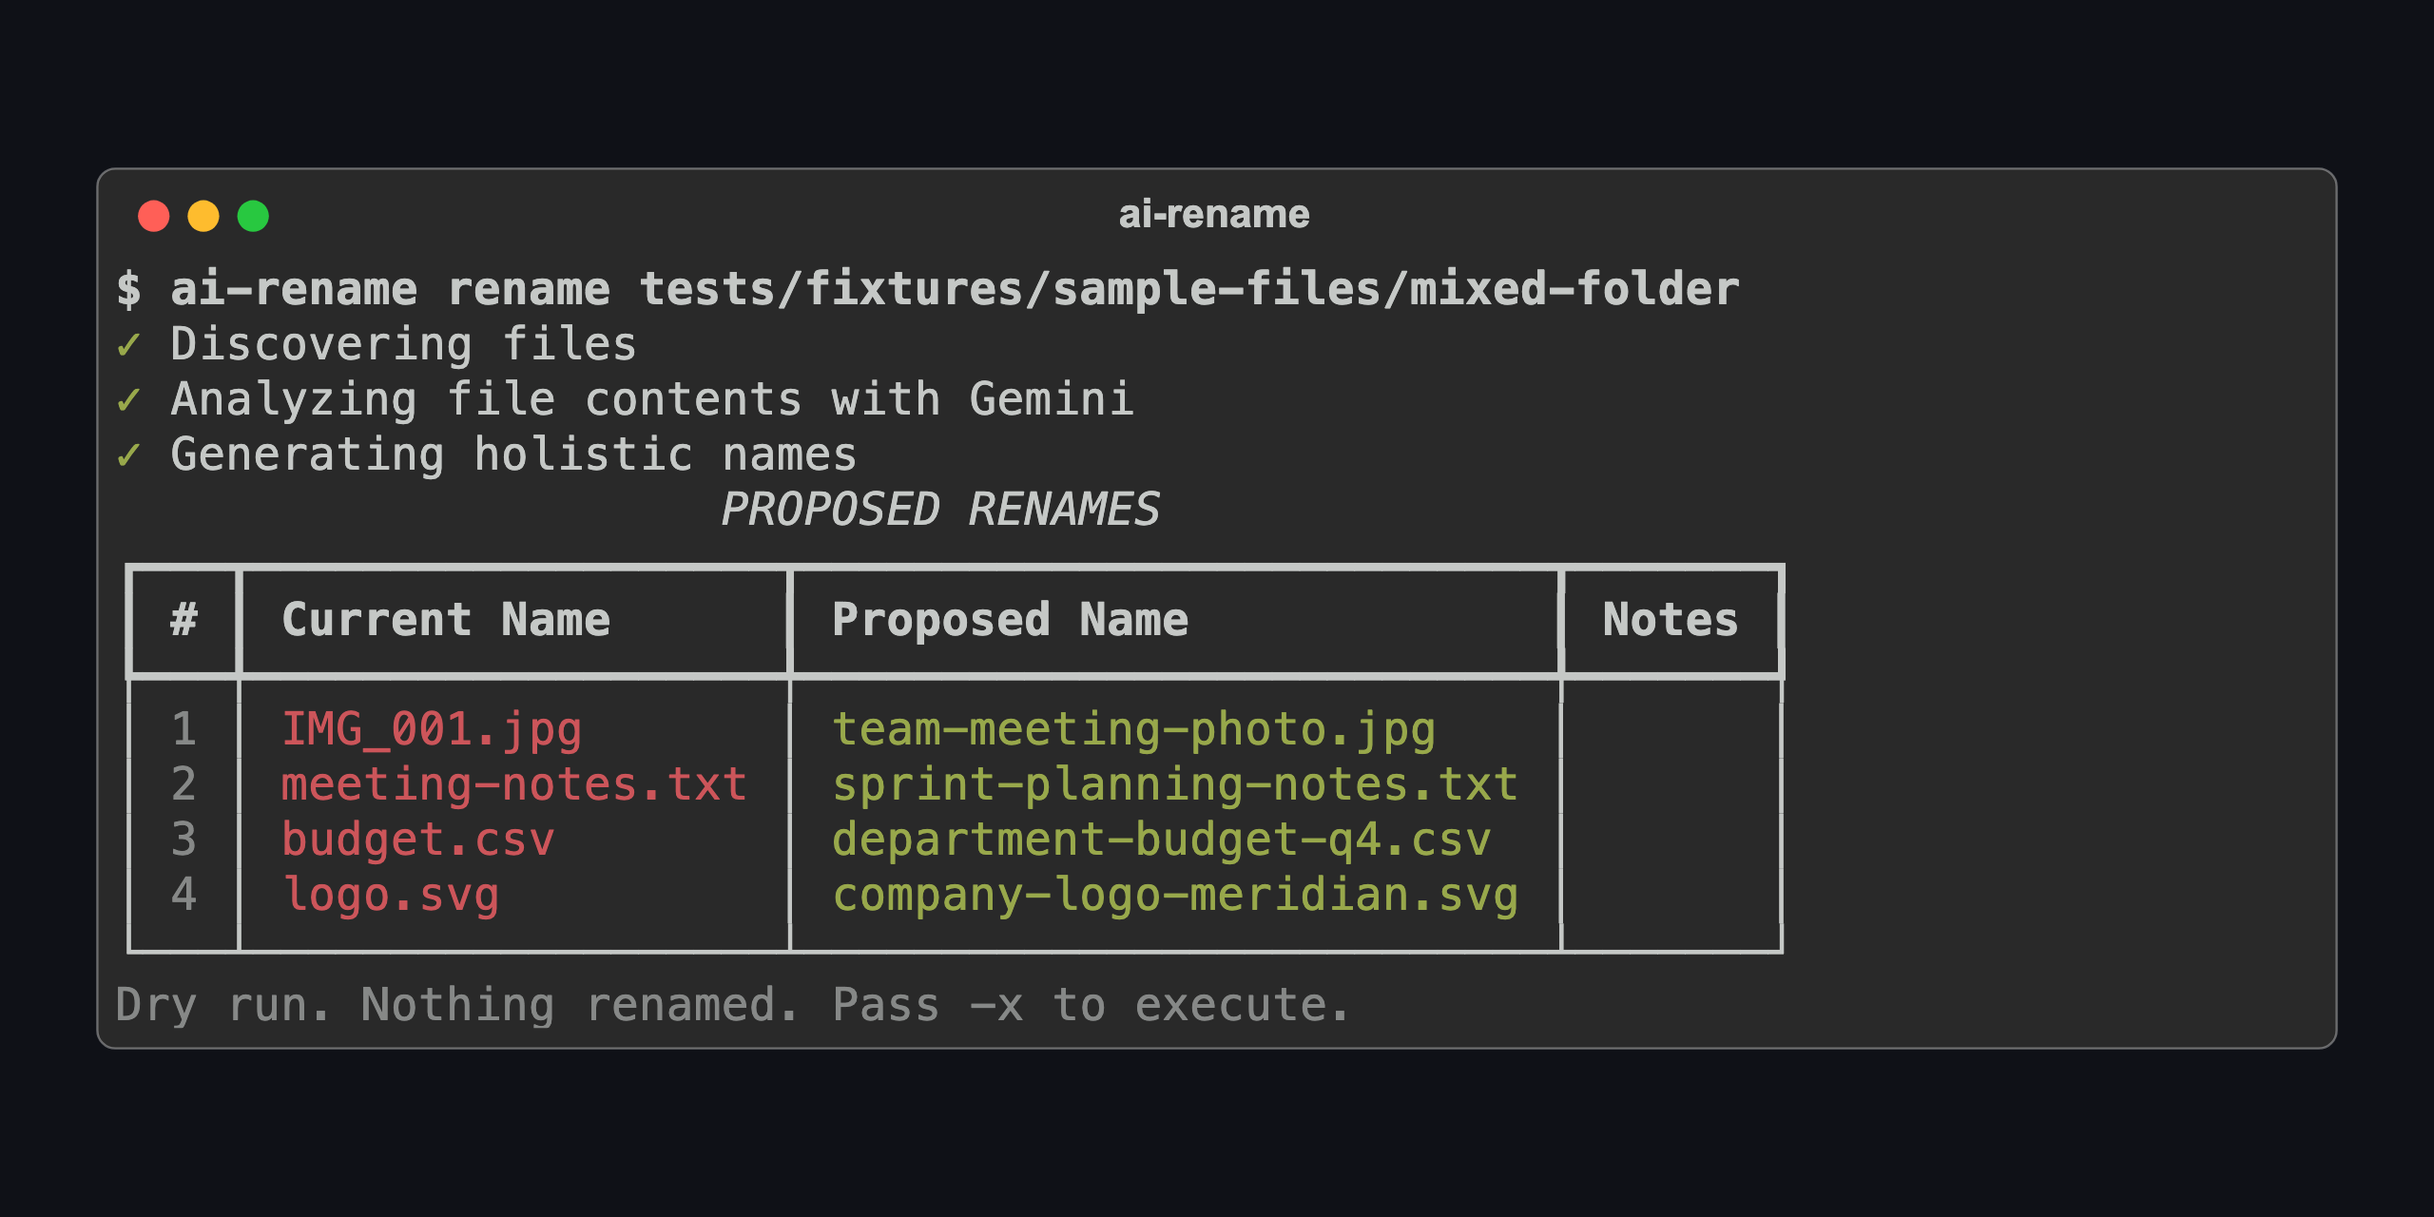
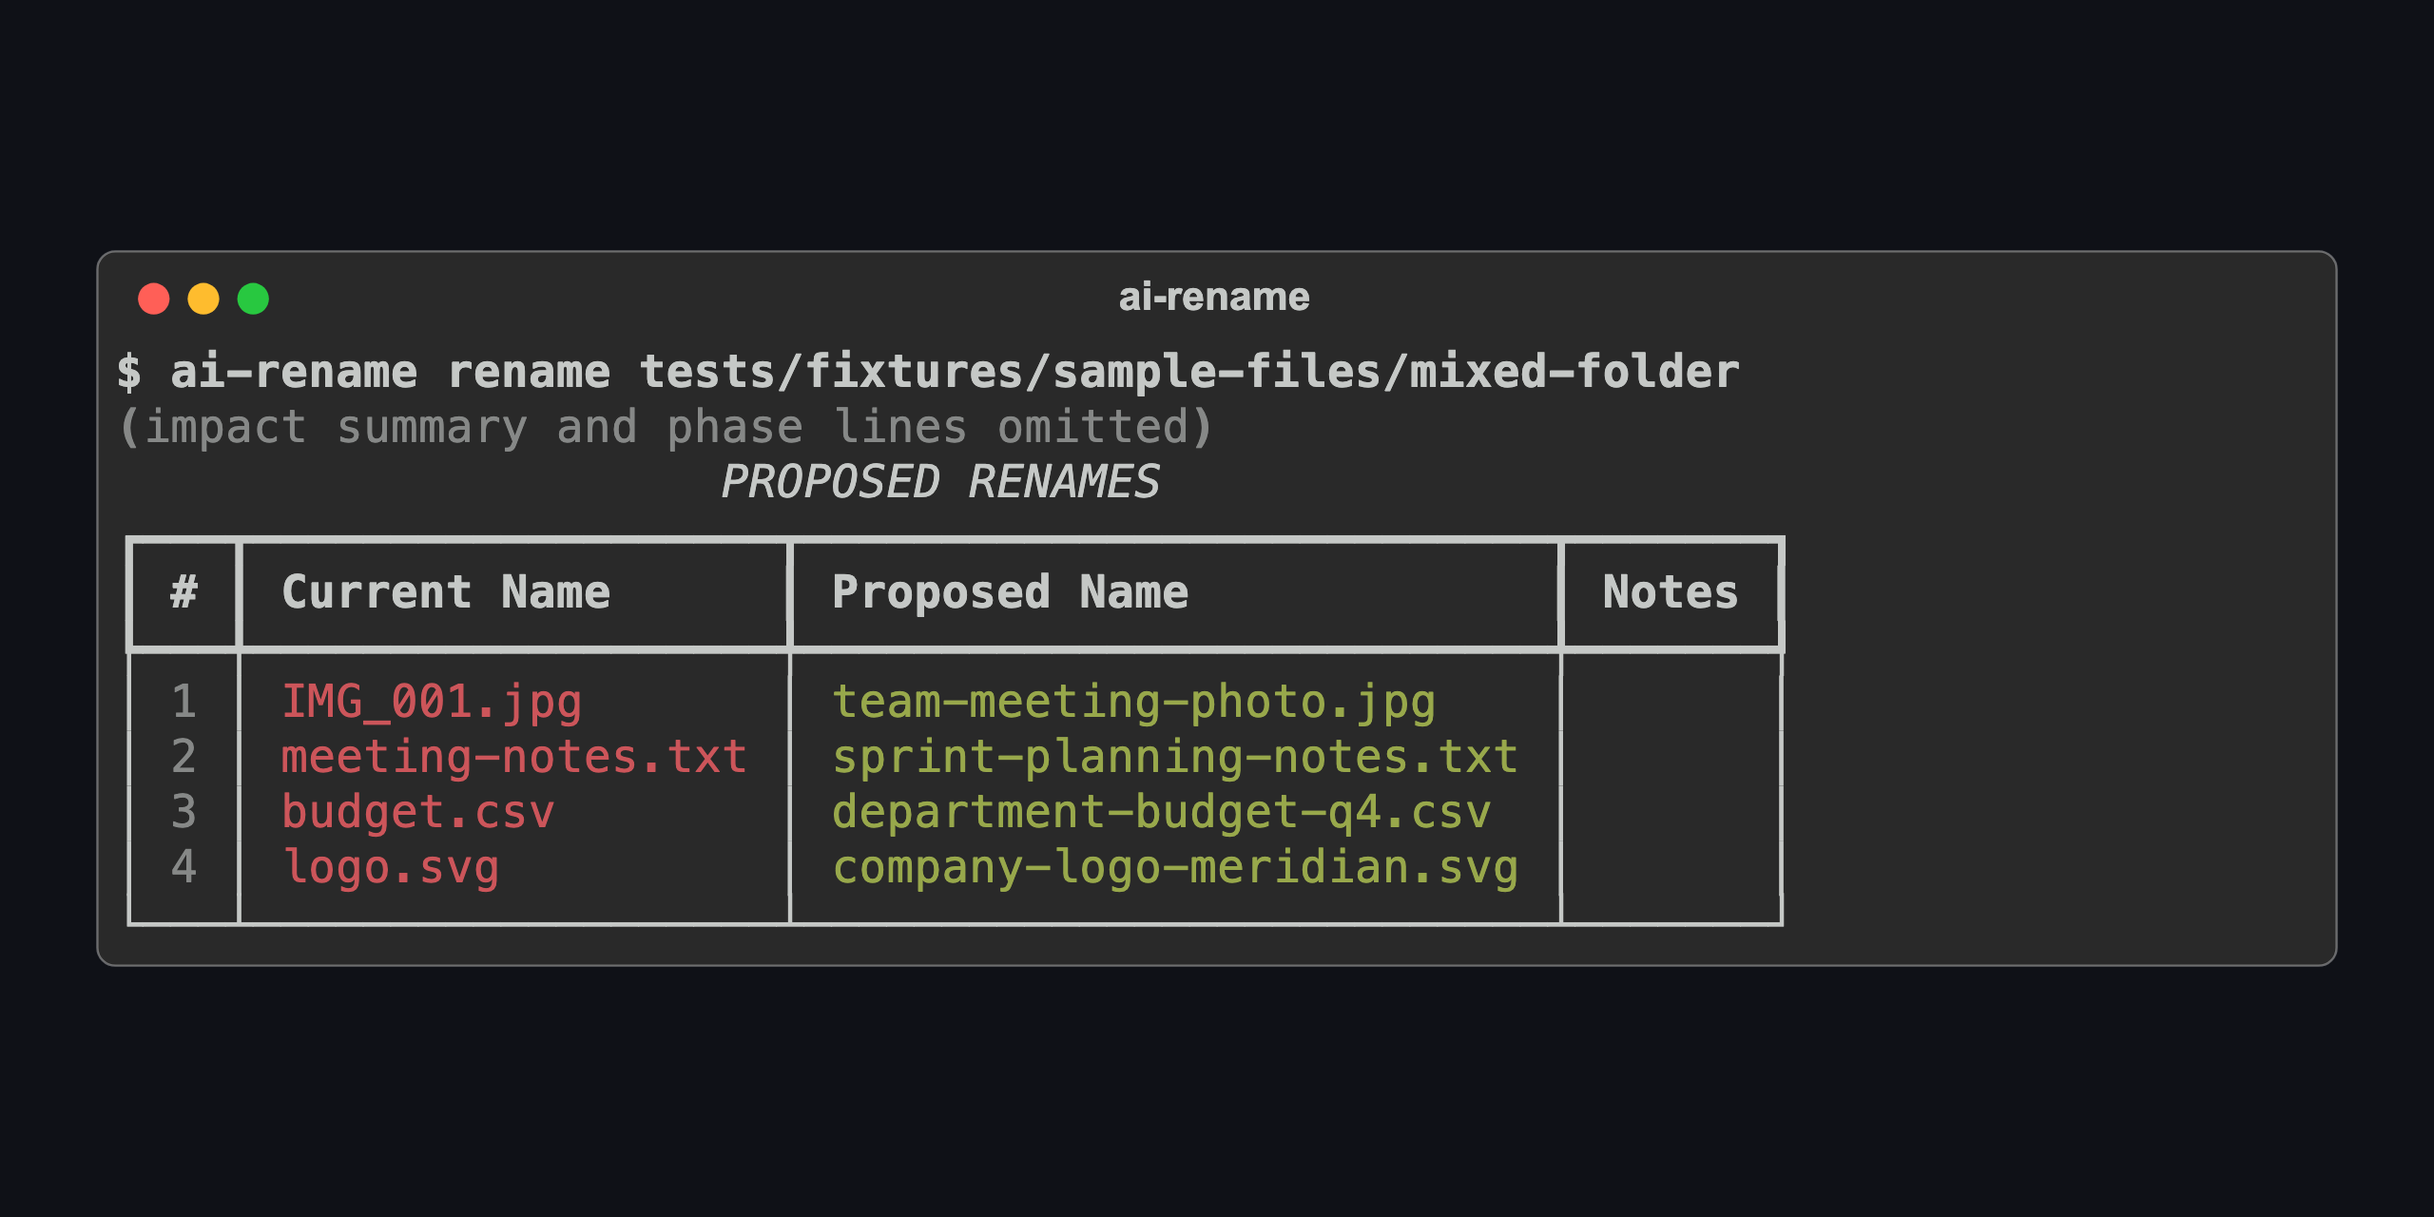
docs: fix what the pre-flip verifier refuted
Cost limit only prompts, so in headless mode it does not stop a run;
a headless re-run discards an interrupted run's manifest; folders above
50 files are named in batches, not one call; the report is rewritten
whole, not atomically; manifest statuses are pending, in_progress,
completed. Said so in AGENTS.md, the manual and known-issues (plus the
network-calling test). README: the -d -H -P flags the plain block
needs, no pipx claim, one call per file. Hero shows only what the CLI
prints. Remove the empty docs/1-todo.md.

Changed region(s): [[0.0312, 0.125, 0.9688, 0.875]]

diff --git a/docs/assets/render_hero.py b/docs/assets/render_hero.py
@@ -28,8 +28,7 @@ renames = json.loads(RESPONSE.read_text())["renames"]
 
 console = Console(record=True, width=86, force_terminal=True, color_system="truecolor")
 console.print("[bold]$ ai-rename rename tests/fixtures/sample-files/mixed-folder[/bold]")
-for phase in ("Discovering files", "Analyzing file contents with Gemini", "Generating holistic names"):
-    console.print(f"[green]\u2713[/green] {phase}")
+console.print("[dim](impact summary and phase lines omitted)[/dim]")
 table = Table(title="PROPOSED RENAMES")
 table.add_column("#", justify="right", style="dim")
 table.add_column("Current Name", style="red")
@@ -38,7 +37,6 @@ table.add_column("Notes", style="yellow")
 for i, r in enumerate(renames, 1):
     table.add_row(str(i), r["current_name"], r["proposed_name"], "")
 console.print(table)
-console.print("[dim]Dry run. Nothing renamed. Pass -x to execute.[/dim]")
 
 (ASSETS / "hero.svg").write_text(console.export_svg(title="ai-rename"))
 (ASSETS / "hero.html").write_text(

diff --git a/README.md b/README.md
@@ -12,15 +12,16 @@ Rename files by their content, a whole folder at a time: a Gemini CLI that dry-r
 *The dry-run table for [`tests/fixtures/sample-files/mixed-folder`](tests/fixtures/sample-files/mixed-folder), with the names from the naming response recorded for it in [`holistic_naming_mixed.json`](tests/fixtures/mock-responses/holistic_naming_mixed.json). Rendered from the fixture by [`render_hero.py`](docs/assets/render_hero.py), not from a live call, so you can check every cell.*
 
 - **Reads the content, not the filename.** Text, PDFs, Office documents, images, audio and video go to Gemini; 69 file extensions are read (20 natively, 11 after conversion, 38 as text) and 32 kinds are refused by design, so `program.exe` is never renamed by guesswork. The table is [`constants.py`](src/ai_file_rename/constants.py).
-- **Names a folder as a set, not file by file.** One call reads each file, a second call names all the files in a folder together, so `IMG_001.jpg`, `budget.csv` and `meeting-notes.txt` come out as a coherent family instead of three unrelated guesses.
+- **Names a folder as a set, not file by file.** One call reads each file, then the folder is named together (one call up to 50 files, batched above that), so `IMG_001.jpg`, `budget.csv` and `meeting-notes.txt` come out as a coherent family instead of three unrelated guesses.
 - **Nothing moves without a record.** Dry run is the default, every executed rename is written to a manifest before the `mv`, name collisions are resolved before anything moves, and symlinks that pointed at a renamed file are updated. `ai-rename undo` reverses a run that was interrupted or had failures; a clean run is logged to `~/.ai-rename/logs/rename-history.jsonl`.
 
 ## What it does
 
-A folder in, a plan out, a record left behind. With `-P` the same table prints as plain text for scripts and agents (this is the fixture above, in that format):
+A folder in, a plan out, a record left behind. With `-d -H -P` (dry run, no prompts, plain text) the same table prints for scripts and agents; this is the fixture above, in that format:
 
 ```text
-$ ai-rename rename tests/fixtures/sample-files/mixed-folder -P
+$ ai-rename rename tests/fixtures/sample-files/mixed-folder -d -H -P
+(impact summary and phase lines omitted)
 [PROPOSED RENAMES] count=4
     1. [rename] IMG_001.jpg -> team-meeting-photo.jpg
     2. [rename] meeting-notes.txt -> sprint-planning-notes.txt
@@ -38,7 +39,7 @@ export GEMINI_API_KEY="..."            # free key: https://aistudio.google.com/a
 ai-rename rename ~/Downloads/messy     # dry run: shows the plan, renames nothing
 ```
 
-Then `ai-rename rename ~/Downloads/messy -x` to apply it. `pipx install` works the same way. Every flag, the YAML config, cost limits and the headless mode for scripts and agents are in the [operations manual](docs/2-operations-manual.md); agents start at [`AGENTS.md`](AGENTS.md).
+Then `ai-rename rename ~/Downloads/messy -x` to apply it. Every flag, the YAML config, cost limits and the headless mode for scripts and agents are in the [operations manual](docs/2-operations-manual.md); agents start at [`AGENTS.md`](AGENTS.md).
 
 ## From Python
 
@@ -48,7 +49,7 @@ The CLI is a thin wrapper over one class ([`session.py`](src/ai_file_rename/sess
 from ai_file_rename import RenameSession
 
 session = RenameSession(target_dir="tests/fixtures/sample-files/mixed-folder", api_key="...")
-plan = session.analyze()                     # two Gemini calls: analyse each file, name the folder
+plan = session.analyze()                     # one Gemini call per file, then the naming call for the folder
 for r in plan.validated_renames:
     print(r.original.current_name, "->", r.final_name)
 # IMG_001.jpg -> team-meeting-photo.jpg      (the four lines of the fixture response above;
@@ -67,7 +68,7 @@ One module per stage, in the order a file passes through:
 | 1 | [`discovery.py`](src/ai_file_rename/discovery.py) | Walks the folder, classifies every file, finds symlinks, estimates cost |
 | 2 | [`metadata.py`](src/ai_file_rename/metadata.py), [`preprocessing.py`](src/ai_file_rename/preprocessing.py) | EXIF, document properties, audio tags; converts what Gemini cannot read natively, in a temp dir |
 | 3 | [`analyzer.py`](src/ai_file_rename/analyzer.py) | The first Gemini call: one content summary per file |
-| 4 | [`namer.py`](src/ai_file_rename/namer.py) | The second Gemini call: names for the whole folder at once, with a strategy per folder size |
+| 4 | [`namer.py`](src/ai_file_rename/namer.py) | The naming call: the whole folder in one call up to 50 files, clustered, sampled or progressive batches above that |
 | 5 | [`validator.py`](src/ai_file_rename/validator.py) | Cross-platform safe names, length limits, collision resolution; a pure function |
 | 6 | [`executor.py`](src/ai_file_rename/executor.py), [`manifest.py`](src/ai_file_rename/manifest.py) | Record intent, rename, verify, record success; the manifest is what `undo` reads |
 

diff --git a/AGENTS.md b/AGENTS.md
@@ -24,7 +24,7 @@ uv run --frozen ruff check src tests
 uv run --frozen ai-rename --help
 ```
 
-Install the CLI for use rather than development: `uv tool install "ai-file-rename[full] @ ."` from the repo root (or the git URL once public). A `GEMINI_API_KEY` is required for any run that reaches Gemini; without one `ai-rename rename` prints an error and exits 1 before touching anything.
+Install the CLI for use rather than development: `uv tool install "ai-file-rename[full] @ ."` from the repo root (or the git URL once public). A `GEMINI_API_KEY` is required for any run that reaches Gemini; without one `ai-rename rename` prints an error and exits 1 before touching the target directory (it does create `~/.ai-rename/logs/` first, `logger.py`).
 
 ---
 
@@ -72,7 +72,7 @@ The report file is a markdown document with:
 - A markdown table of all proposed/executed renames
 - Token usage and cost
 
-**This is the authoritative record of what happened.** It is more reliable than parsing stdout because it is written atomically and contains structured data. The writer is `RunReport` in `cli.py`.
+**This is the authoritative record of what happened.** It is more reliable than parsing stdout because it is rewritten whole at each phase transition and contains structured data. The writer is `RunReport` in `cli.py`.
 
 ---
 
@@ -110,19 +110,19 @@ ai-rename rename <dir> -r -x -H -P --verbose
 ai-rename undo <target_directory> -f
 ```
 
-This reverses the renames recorded in the directory's manifest (`.ai-rename-manifest.json`). The manifest is deleted when a run completes with zero failures (`executor.py`, after the finalize step), so undo is available only for a run that was interrupted or had failures; after a clean run the command reports that there is nothing to undo, and the record of what moved is in `rename-history.jsonl`.
+This reverses the renames recorded in the directory's manifest (`.ai-rename-manifest.json`). The manifest is deleted when a run completes with zero failures (`executor.py`, after the finalize step), so undo is available only for a run that was interrupted or had failures; after a clean run the command reports that there is nothing to undo, and the record of what moved is in `rename-history.jsonl`. **A headless re-run deletes an interrupted run's manifest without asking** (`cli.py`, the `existing.is_interrupted` block takes the discard branch when `-H` is set), so after an interruption run `undo` first, never a second `-H` pass.
 
 ---
 
 ## Key Behaviors to Be Aware Of
 
-1. **Every processable file goes to Gemini, and every folder is named as a set.** There is no filename-based pre-filter and no single-file shortcut: one content-analysis call per file (`analyzer.py`), then one naming call per folder (`namer.py`, `name_folder`), whatever the folder's size. Files whose analysis came back as `error`, `unknown` or `skipped`, or with confidence below 0.1, are left out of the naming call and logged as `[skipped]` (`namer.py`, `name_folder`).
+1. **Every processable file goes to Gemini, and every folder is named as a set.** There is no filename-based pre-filter and no single-file shortcut: one content-analysis call per file (`analyzer.py`), then the folder is named together, in one call for folders of up to 50 files and in clustered, sampled or progressive batches above that (`namer.py`, `select_strategy`). Files whose analysis came back as `error`, `unknown` or `skipped`, or with confidence below 0.1, are left out of the naming call and logged as `[skipped]` (`namer.py`, `name_folder`).
 
 2. **Failed analysis = skipped, not corrupted.** If Gemini returns an error for a file (400, 429, etc.), that file is excluded from renaming entirely. It will appear in the report under "Analysis Failures."
 
 3. **The tool writes to the target directory.** Two artifacts: the report file (`.ai-rename-report-*.md`, persists) and the manifest (`.ai-rename-manifest.json`, cleaned up on success). Both are dotfiles excluded from the tool's own discovery (`config.py`, `exclude_patterns`).
 
-4. **Cost is controlled.** Default limit is $5.00 USD (`config.py`); override with `--cost-limit`. The default model is `gemini-2.5-flash`; the cheapest is `gemini-2.0-flash` (`--model gemini-2.0-flash`; prices in `constants.py`, `COST_PER_TOKEN`).
+4. **The cost limit is a prompt, not a stop.** Default limit is $5.00 USD (`config.py`); override with `--cost-limit`. When the estimate exceeds it, an interactive run asks before continuing; a headless run (`-H`) prints the warning and continues (`cli.py`, the cost check confirms only when not headless), so `--cost-limit` does not bound an unattended run; bound it with `--max-files` or `--include` instead. The default model is `gemini-2.5-flash`; the cheapest is `gemini-2.0-flash` (`--model gemini-2.0-flash`; prices in `constants.py`, `COST_PER_TOKEN`).
 
 ---
 

diff --git a/docs/1-known-issues.md b/docs/1-known-issues.md
@@ -3,6 +3,9 @@
 Open items a reader or contributor should know about. Each names the code it concerns; when the code changes, this list changes in the same commit.
 
 - **`undo` works only for interrupted or failed runs.** A run that completes with zero failures deletes its manifest (`executor.py`, finalize step; pinned by `tests/test_executor.py::test_manifest_cleanup_on_success`), and `undo` reads only the manifest, so after a clean run it reports nothing to undo. The completed run is in `~/.ai-rename/logs/rename-history.jsonl`, from which a reversal is a manual job. The PRD (`0-PRD.md`, Manifest Lifecycle) describes an interactive mode that keeps the manifest until the user confirms; that mode was not built.
+- **`--cost-limit` does not stop a headless run.** The check in `cli.py` (the `rename` command, "Cost check") asks for confirmation only when not headless; with `-H` it prints the warning and continues. Bound unattended spend with `--max-files` or `--include` until the check refuses in headless mode.
+- **A headless re-run discards an interrupted run's manifest without asking.** In `cli.py` the `existing.is_interrupted` block offers resume, undo or discard only interactively; under `-H` it calls `existing.cleanup()`, which deletes the only record that could undo the interrupted run. After an interruption, run `ai-rename undo` or an interactive run first.
+- **One test reaches the network and writes into the fixture tree.** `tests/test_cli.py::test_rename_vertex_ai_skips_api_key_check` runs a headless execute against `tests/fixtures/sample-files/text` with `use_vertex_ai: true`; it gets real 403s from Google, leaves a `.ai-rename-report-*.md` there (gitignored) and a session log under `~/.ai-rename/logs/`, and its assertion cannot fail. A first `pytest` on a fresh clone therefore makes network calls. The fix is to mock the client and pass `-d`.
 - **`ruff check src tests` reports 49 findings** (38 unused imports, 7 f-strings without placeholders, 4 unused variables); all pre-date the public release and none affects behaviour. `uv run --frozen ruff check src tests --fix` clears 46 of them.
 - **PyPDF2 is deprecated upstream** in favour of `pypdf`; the `pdf` extra still pins `PyPDF2>=3.0` and the test run reports the deprecation warning.
 - **The design documents are design-time records.** `0-PRD.md` and `0-architecture.md` describe the system as planned (for example a default model of `gemini-2.0-flash`, an `--api-key` flag, and a single-file naming shortcut); the shipped defaults and flags are in `config.py` and `cli.py`. Where they differ, the code is right.

diff --git a/docs/2-operations-manual.md b/docs/2-operations-manual.md
@@ -480,8 +480,8 @@ The tool defaults to dry-run mode. No files are renamed unless you pass `--execu
 
 During execution, an ephemeral manifest file (`.ai-rename-manifest.json`) is written to the target directory:
 
-- Records each rename's status (`pending` → `completed`)
-- Enables crash recovery: if the process is interrupted, the next run detects the manifest and offers: **resume**, **undo**, or **discard**
+- Records each rename's status (`pending` → `in_progress` → `completed`)
+- Enables crash recovery: if the process is interrupted, the next interactive run detects the manifest and offers: **resume**, **undo**, or **discard** (a headless run discards it; see Interrupted Runs)
 - Automatically cleaned up on successful completion
 
 ### Undo
@@ -504,7 +504,7 @@ Reverses the renames recorded in the directory's manifest. The manifest exists o
 
 Each file rename follows this sequence:
 
-1. Record intent in manifest (status: `pending`)
+1. Record intent in manifest (status: `pending` → `in_progress`)
 2. Execute `os.rename()`
 3. Verify: old path gone, new path exists, file size unchanged
 4. Update any incoming symlinks
@@ -585,7 +585,7 @@ Set a cost ceiling with `--cost-limit` (default: $5.00 USD):
 ai-rename rename ~/files --cost-limit 2.00
 ```
 
-If the estimated cost exceeds the limit, the tool warns and asks for confirmation (or aborts in headless mode).
+If the estimated cost exceeds the limit, the tool warns and asks for confirmation. In headless mode (`-H`) it prints the warning and continues (`cli.py`, the cost check runs `click.confirm` only when not headless); the limit does not stop an unattended run.
 
 ### Minimizing Costs
 
@@ -643,11 +643,13 @@ All sessions are logged to `~/.ai-rename/logs/`:
 
 ### Interrupted Runs
 
-If a run is interrupted mid-rename, the next run in the same directory detects the manifest and offers:
+If a run is interrupted mid-rename, the next **interactive** run in the same directory detects the manifest and offers:
 
 - **Resume**: continue pending renames
 - **Undo**: reverse completed renames
 - **Discard**: delete the manifest and start fresh
+
+A **headless** run (`-H`) takes the discard branch without asking (`cli.py`, the `existing.is_interrupted` block): the manifest, and with it the undo of the interrupted run, is deleted before the new run starts. After an interruption, run interactively or `ai-rename undo` first.
 
 ---
 
